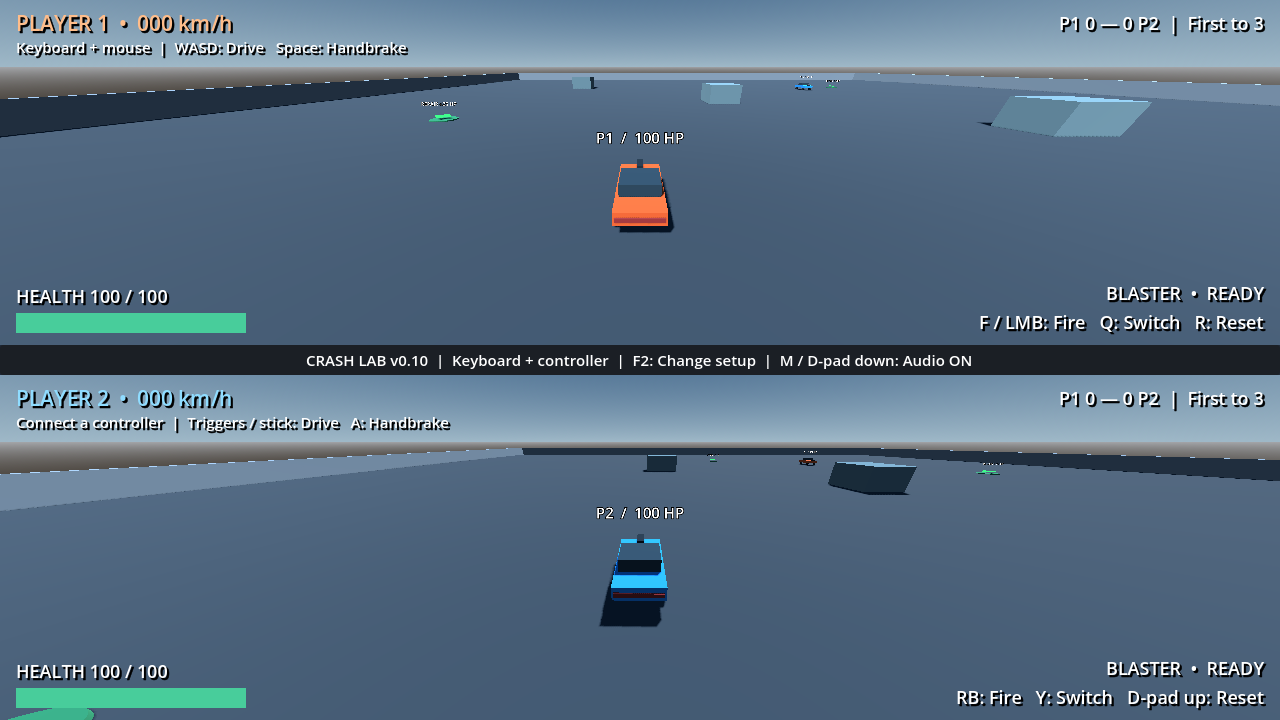
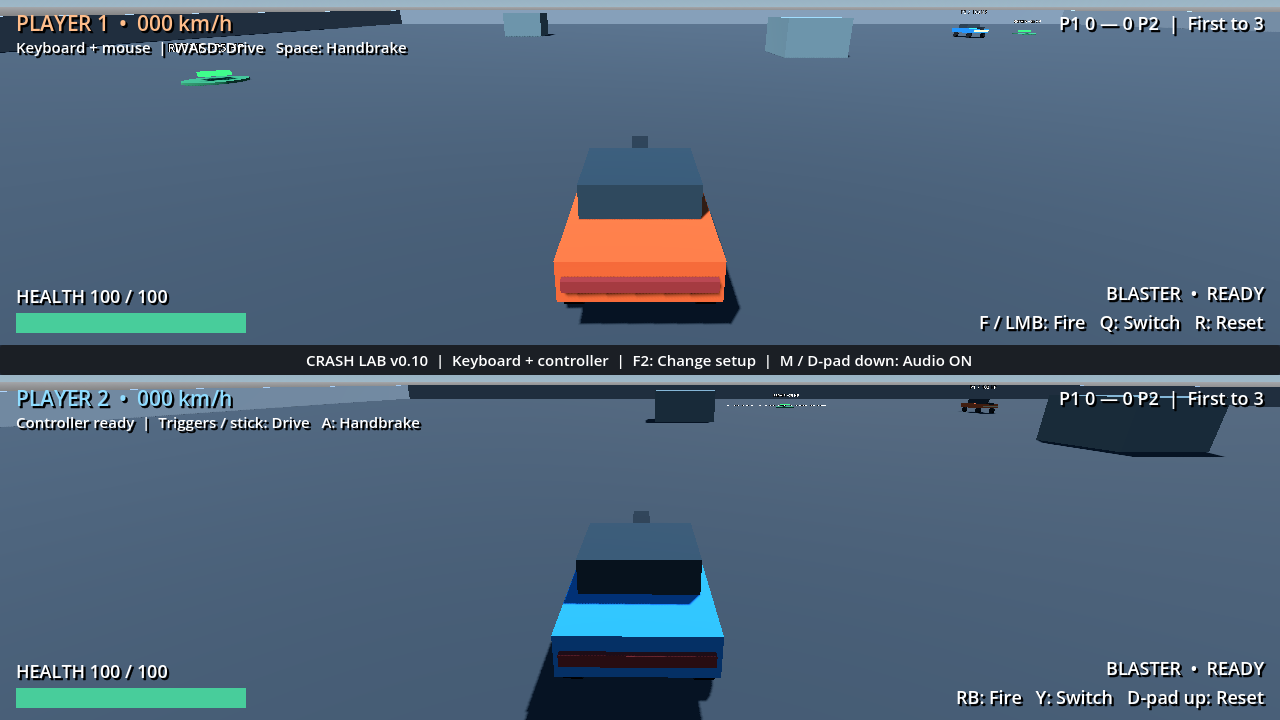
fix: bring split-screen chase cameras closer and correct wide framing

diff --git a/README.md b/README.md
@@ -1,6 +1,6 @@
 # Crash Lab v0.10 — Local Multiplayer
 
-**Merged baseline:** v0.9 Impact Lab, `cb76c23`. v0.10 adds a separate two-human local duel on `feature/local-multiplayer`; human Windows/controller acceptance and merge are pending. All approved v0.9 driving, weapon, collision and camera settings are retained.
+**Merged baseline:** v0.9 Impact Lab, `cb76c23`. v0.10 adds a separate two-human local duel on `feature/local-multiplayer`; human acceptance and merge are pending. Approved driving, weapon and collision settings are retained; local camera framing was refined after playtest feedback.
 
 ## Two-player local duel
 
@@ -27,7 +27,9 @@ Local scoring credits only the **opponent who caused the accepted lethal hit**. 
 
 If the primary spawn is occupied after the normal countdown, a local player waits up to **1.5 more seconds** before trying four deterministic alternatives at **(±55, 1.25, ±55)**. P1 checks west/south first, P2 east/north first. Each candidate must pass a chassis clearance query and four ground-support checks; integration rechecks occupancy before moving. No firing/healing occurs until the reset is confirmed. If all candidates are blocked, the player waits safely and retries. With one opposing car and the authored arena, it cannot camp all separated spawns at once. Recovery with R/D-pad up remains a manual return to the primary spawn, without healing or scoring changes.
 
-Horizontal split uses two SubViewports sharing one World3D. Physics, projectiles, pickups and spark lifetimes run once; each view retains v0.9 chase tuning, 75–85° speed FOV and involved-player collision shake. Crossed streak geometry makes one spark burst visible from both viewpoints. One audio observer/listener mixes sounds from the players' midpoint through shared speakers, with session mute and no per-view duplicate cues.
+Horizontal split uses two SubViewports sharing one World3D. Physics, projectiles, pickups and spark lifetimes run once. Each view retains chase smoothing, obstacle avoidance and involved-player collision shake, with the local framing below. Crossed streak geometry makes one spark burst visible from both viewpoints. One audio observer/listener mixes sounds from the players' midpoint through shared speakers, with session mute and no per-view duplicate cues.
+
+**Camera playtest refinement (October 30):** local cameras now sit **6.5 m back / 2.4 m up**, focusing **0.55 m** above the car origin, versus 8.5 / 4.0 / 0.8 previously. Each very wide split view now uses a controlled **110–115° horizontal FOV** rather than retaining 75–85° vertically (which expanded to roughly 141–147° horizontally). This brings the car closer and reduces wide-angle edge distortion. The smaller five-degree speed widening remains smooth. Configure the five local framing exports on the LocalDuel root. Your own floating nameplate is hidden only in your view, where the HUD already supplies identity/health; the opponent still sees it. AI duel/training retain their original camera defaults. [Before](docs/images/local-camera-before.png) / [moving refined view](docs/images/local-camera-speed.png). Final camera feel still needs another human check.
 
 ![Actual local-duel launch layout](docs/images/local-duel.png)
 

diff --git a/docs/PHYSICS.md b/docs/PHYSICS.md
@@ -87,7 +87,13 @@ Manual reset and automatic fall recovery restore the recorded primary transform 
 
 ## v0.10 shared physics and safe alternate spawning
 
-Two SubViewports share one root World3D/physics space at **120 Hz**, not two simulations. Both human cars retain the exact v0.9 mass, 22,000 N power, 55 m/s cutoff, steering/brakes/grip/suspension/damping, weapon tuning and camera settings. Physical collisions still deal no health damage. A local 55 m/s opposing collision emits one canonical event and stops both chassis with >4 m separation, routing shake to both cameras.
+Two SubViewports share one root World3D/physics space at **120 Hz**, not two simulations. Both human cars retain the exact v0.9 mass, 22,000 N power, 55 m/s cutoff, steering/brakes/grip/suspension/damping and weapon tuning. Local camera framing is the explicit playtest adjustment below. Physical collisions still deal no health damage. A local 55 m/s opposing collision emits one canonical event and stops both chassis with >4 m separation, routing shake to both cameras.
+
+### Local camera framing after playtest
+
+The initial half-height view preserved 75° vertical FOV, giving approximately 141° horizontal at 1280×345 (`2*atan(tan(vertical/2)*aspect)`); widening to 85° vertically gave ~147° across. This explains the stretched edges and small, distant-looking car. Local cameras now use `Camera3D.KEEP_WIDTH` with **110° horizontal**, widening by **5°** at speed. Distance **6.5 m**, height **2.4 m**, focus height **0.55 m** frame the entire car with a closer/lower view. `local_duel.gd` exports all five values. Smoothing 9/s, yaw response 4/s, speed thresholds/response, obstruction ray and collision shake are unchanged.
+
+The shared chase script exposes `focus_height` (default **0.8 m**) and `maximum_fov` (default **95°**); AI/training still use their original 8.5 m / 4 m and 75–85° vertical lens. Only the local scene sets its horizontal cap to 115°. HUD/world geometry is not stretched to achieve this. See [Godot Camera3D aspect/FOV](https://docs.godotengine.org/en/stable/classes/class_camera3d.html). Stationary, moving and resized views were rendered and inspected; human framing approval remains pending.
 
 Local `alternate_spawn_points` are four flat-arena corners at (±55, 1.25, ±55), searched in authored order; they retain the primary spawn's heading. Health waits **1.5 seconds after an occupied normal respawn countdown** before alternatives become eligible. At each physics step, try the primary first, then alternatives: physical chassis overlap query, mask 3, own RID excluded, 0.3 m margin; alternatives also require all four wheel-mount downward rays (2 m, world mask 1) to hit support with normal-up dot ≥0.7. The recorded candidate is rechecked inside integration immediately before moving. Health waits for a new `reset_generation` before restoration/protection/input. Re-evaluate blocked candidates rather than reserving a location that could become occupied. If every candidate is unsafe, defer and retry. This replaces spawn camping deadlock in the authored two-car local arena without unsafe teleporting.
 

diff --git a/docs/GAME_DESIGN.md b/docs/GAME_DESIGN.md
@@ -29,7 +29,8 @@ v0.9 Impact Lab is merged at `cb76c23`, including refined acceleration, reliable
 - **Controls:** default keyboard/mouse P1 plus first pad P2; F2 selects two pads. Explicit device IDs and independent raw-event state avoid global action cross-talk. A disconnected car coasts with zero commands, and the match continues. Neutral is required before a newly assigned pad joins; remaining players retain their pad slot. No automatic pause/lobby/remapping in this milestone.
 - **Fairness:** both humans use 100 HP, identical blaster/cannon tuning, three-second respawn and 1.5-second protection. Only a lethal hit attributed to the opponent earns a local-match point. Self/unknown kills respawn without points; no stale attacker/assist credit. First to three, with same-tick winning trades resolved as draws.
 - **Spawn camping:** after the normal countdown and 1.5 seconds of blockage, try separated deterministic alternatives with ground/clearance validation. Retry safely if all are blocked; never force a reset into another body. One opponent cannot occupy all four authored alternatives simultaneously.
-- **Readability:** separate compact health/loadout/score/respawn/device HUDs and P1/P2 labels. One global winner/draw overlay, one shared mute/result cue and a midpoint speaker mix. Each involved camera reacts to a crash; one shared burst uses crossed streak geometry. No approved physics, weapon, FOV or collision tuning is changed.
+- **Readability:** separate compact health/loadout/score/respawn/device HUDs and P1/P2 labels. One global winner/draw overlay, one shared mute/result cue and a midpoint speaker mix. Each involved camera reacts to a crash; one shared burst uses crossed streak geometry. Physics, weapons and collision tuning are unchanged.
+- **Camera playtest response (October 30):** user reported the camera too far back/stretched, with the rest looking/feeling good. Local framing moves to 6.5 m back / 2.4 m up / 0.55 m focus and a 110–115° horizontal lens; remove the excessive ~141–147° sideways expansion of the original split view. Keep the whole car framed and hide only its redundant own-world nameplate. Shared follow smoothing/obstruction/shake and AI/training defaults remain intact. Another human camera check is pending; this feedback is not merge approval.
 - **Evidence and gate:** 70 multiplayer checks plus all 256 existing checks pass locally; real Windows renders cover layout, collision in both views, protected respawn, resize and result. A short scripted rendering probe shows ~5.5 ms average frame time on the inspected GTX 1060, with no measurable single-/two-view difference beyond noise at the same total render area. Physical controllers were not connected, so two-person driving, input/hotplug comfort, aiming readability and final fairness still require human acceptance. Details in [TESTING](TESTING.md#v010-local-multiplayer-validation).
 
 ## v0.9 collision decisions (merged)

diff --git a/docs/TESTING.md b/docs/TESTING.md
@@ -142,6 +142,8 @@ The difference is within short-run noise, **not proof that a second camera is fr
 
 ### Required human Windows acceptance
 
+**October 30 camera follow-up:** user reported other gameplay looked/felt good but the camera was too far back/stretched. Local framing now uses 6.5 / 2.4 / 0.55 m distance/height/focus, 110–115° **horizontal** FOV (previously ~141–147° horizontal via the vertical lens). The existing multiplayer camera check now verifies that profile and independent speed response. Real Windows captures inspect both full cars at rest, both at ~112 km/h (113.53° horizontal FOV), and resized layout: [before](images/local-camera-before.png), [after](images/local-duel.png), [moving](images/local-camera-speed.png), [resized](images/local-resized.png). Own floating nameplates are excluded from only their own camera; HUD identity remains and opponents still see labels. Earlier collision/respawn/result images and performance measurements above predate this framing change. Human camera recheck and merge remain pending; positive feedback elsewhere is not merge approval.
+
 - [ ] Keyboard/mouse P1 + one physical pad P2: every control, simultaneous driving/fire and no cross-control.
 - [ ] Two separate pads: F2 setup, correct device slots, analog ranges/deadzones and independent handbrake/recovery/switching.
 - [ ] Unplug either pad while moving/firing/holding Y; remaining player keeps control. Reconnect/release to neutral, including reversed connection order and restart while Start is held.

diff --git a/docs/ARCHITECTURE.md b/docs/ARCHITECTURE.md
@@ -74,6 +74,8 @@ Two SubViewportContainers sit in a root VBox and each shares the root `World3D`.
 
 Validated against the local engine and official [viewport guide](https://docs.godotengine.org/en/stable/tutorials/rendering/viewports.html), [per-device Input API](https://docs.godotengine.org/en/stable/classes/class_input.html) and [AudioListener3D](https://docs.godotengine.org/en/stable/classes/class_audiolistener3d.html). In particular, global action strengths do not identify an individual pad; device IDs are routed explicitly.
 
+Post-playtest local framing is configured on the LocalDuel root: 6.5 m back, 2.4 m up, 0.55 m focus, 110° horizontal FOV plus 5° speed widening. The shared chase defaults stay unchanged for AI/training; new optional focus/FOV-cap fields permit local overrides. Local nameplates use visual layers 19/20 (bits 18/19), each camera excluding only its own label while retaining the opponent's. This affects render culling only, not physical collision layers or health data.
+
 ## Known structural limits
 
 No online networking, arbitrary multi-party/assist attribution, environment destruction, collision health damage or paid CI components. Local mode is two players with one horizontal layout and a shared speaker mix. Dynamic extra actors would need observer registration. The public-only workflow includes multiplayer checks; actual hosted results still require verification. See [GAME_DESIGN](GAME_DESIGN.md), [PHYSICS](PHYSICS.md), and [TESTING](TESTING.md).

diff --git a/CHANGELOG.md b/CHANGELOG.md
@@ -5,6 +5,7 @@ Changes are grouped by prototype milestone. Versions are **development milestone
 ## Unreleased
 
 ### v0.10: Local Multiplayer (feature branch; human acceptance pending)
+- Refine the local chase camera after playtesting: 6.5 m back / 2.4 m up / 0.55 m focus, controlled 110–115° horizontal FOV, and hide the redundant own-camera nameplate. Preserve shared smoothing/shake/obstruction and AI/training camera defaults. Include before/after stationary/moving/resized renders; camera acceptance remains pending.
 - Add `scenes/local_duel.tscn`: one shared arena, equal orange P1/blue P2 human cars, horizontal shared-world SubViewports, independent v0.9 chase cameras and compact HUDs, one winner/draw screen. Keep AI duel as F5 default and training available.
 - Add explicit raw device-aware routing: keyboard/mouse + first pad by default, F2 two-pad setup, analog deadzones, stable hotplug slots, neutral reconnect, independent selection/recovery and release-gated shared restart/mute. Original single-player input is unchanged.
 - Add weak projectile shooter attribution and compatible `take_damage_from`; local scoring credits only the opposing lethal source, with no self/environment/stale-attacker awards. Preserve completed-tick draws and legacy AI one-argument compatibility.

diff --git a/docs/ROADMAP.md b/docs/ROADMAP.md
@@ -16,6 +16,7 @@ Build a small, polished, original Windows vehicular-combat game with responsive 
 - **v0.8.1 implemented on main at `9c0a242`:** public-only Godot headless workflow on one free standard runner with no artifacts/caches. Prior wording that it was still proposed is superseded by the merged starting baseline. Current CI results must still be checked per commit.
 - **v0.9 merged:** [PR #12](https://github.com/FoxyLight/Crash-Lab/pull/12), commit `cb76c23`, includes reliable impact feedback, visible sparks, refined powertrain and speed FOV. Extra crash impulses remain disabled.
 - **v0.10 on `feature/local-multiplayer`:** two-human shared-world split-screen, explicit device routing, per-player HUDs, strict local damage credit, safe alternate spawns and shared audio/effects. Local implementation/tests and documentation are ready for review; physical controller/two-person acceptance and merge are pending.
+- October 30 playtest: other gameplay looked/felt good; local chase framing was too distant/stretched. Closer horizontal-lens framing is implemented in PR #13, awaiting renewed camera acceptance; no merge authorization received.
 
 ## Approved cost policy for future CI (mandatory)
 
